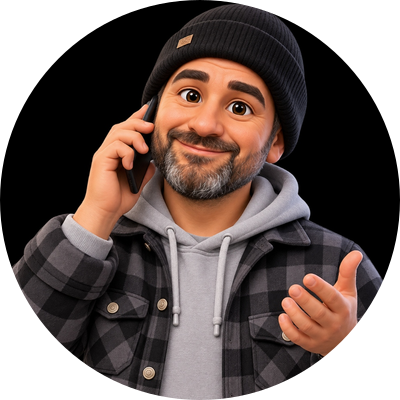
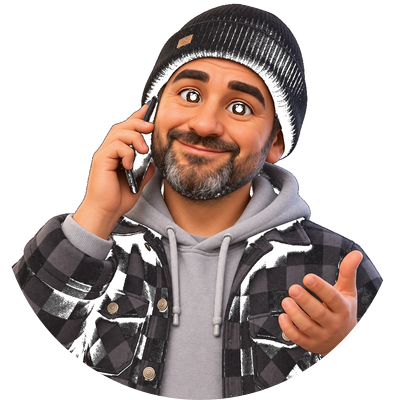
style(landing): update Hernan phone image with pure white background and remove overlay dot

diff --git a/src/app/(public)/page.tsx b/src/app/(public)/page.tsx
@@ -244,7 +244,7 @@ export default async function PublicHomePage() {
                                 <span>Hablar con un Asesor</span>
                             </a>
 
-                            {/* Hernán al móvil (solo imagen, 2x más grande) */}
+                            {/* Hernán al móvil (solo imagen con fondo blanco, 2x más grande) */}
                             <a
                                 href={`https://wa.me/${wp}?text=${encodeURIComponent('Hola Hernán, me gustaría recibir asesoramiento para comprar o vender un auto.')}`}
                                 target="_blank"
@@ -256,11 +256,11 @@ export default async function PublicHomePage() {
                                     borderRadius: '50%',
                                     overflow: 'hidden',
                                     border: '3px solid #EA580C',
-                                    backgroundColor: '#0F172A',
+                                    backgroundColor: '#FFFFFF',
                                     flexShrink: 0,
                                     position: 'relative',
                                     display: 'block',
-                                    boxShadow: '0 8px 24px rgba(234, 88, 12, 0.25), 0 4px 12px rgba(0,0,0,0.15)',
+                                    boxShadow: '0 8px 24px rgba(234, 88, 12, 0.25), 0 4px 12px rgba(0,0,0,0.12)',
                                     transition: 'transform 0.2s cubic-bezier(0.16, 1, 0.3, 1)'
                                 }}
                             >
@@ -269,17 +269,6 @@ export default async function PublicHomePage() {
                                     alt="Hernán Asesor Comercial Special Cars"
                                     style={{ width: '100%', height: '100%', objectFit: 'cover', display: 'block' }}
                                 />
-                                <span style={{
-                                    position: 'absolute',
-                                    bottom: 4,
-                                    right: 4,
-                                    width: 16,
-                                    height: 16,
-                                    borderRadius: '50%',
-                                    backgroundColor: '#22C55E',
-                                    border: '2.5px solid #FFFFFF',
-                                    boxShadow: '0 0 8px #22C55E'
-                                }} />
                             </a>
                         </div>
                     </div>
